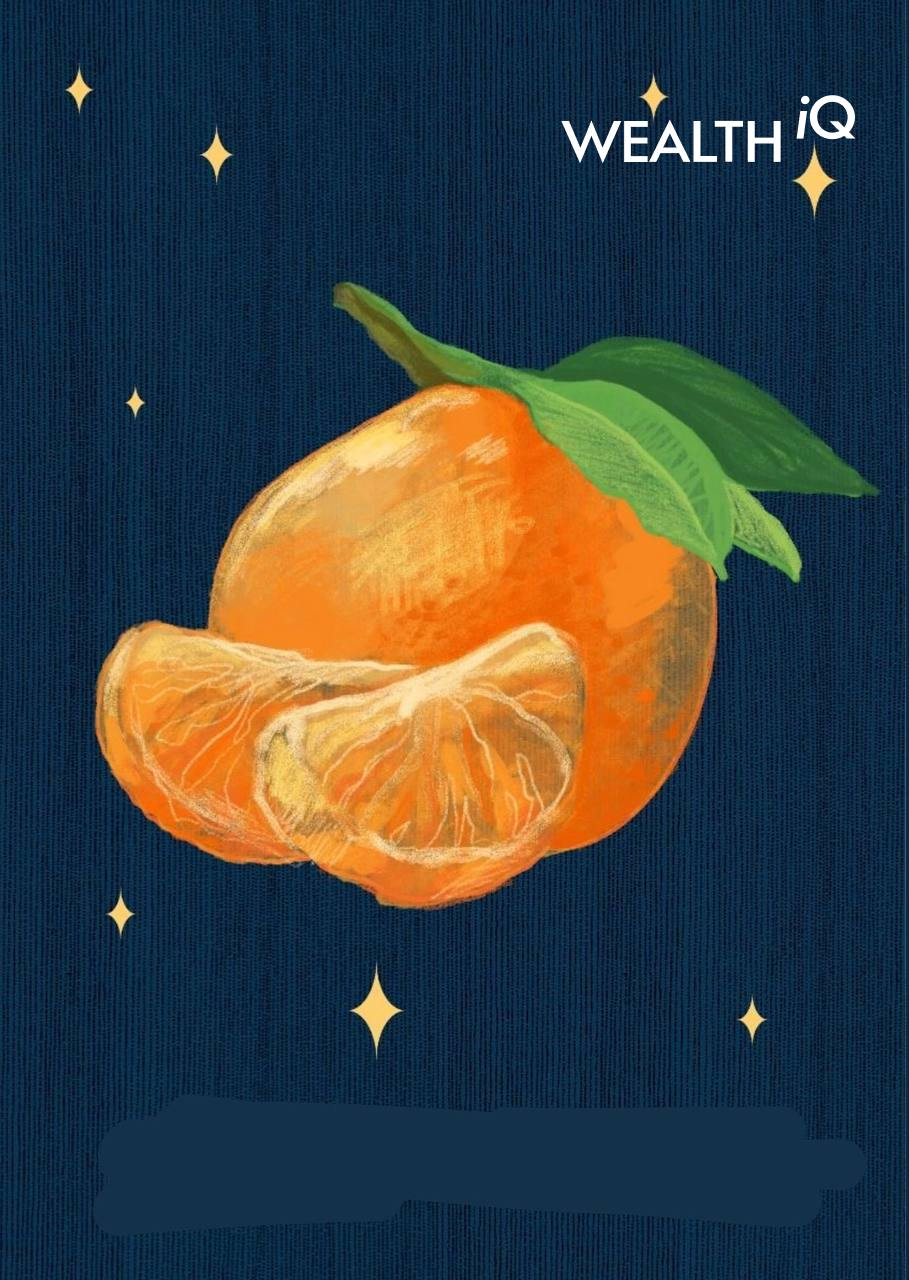
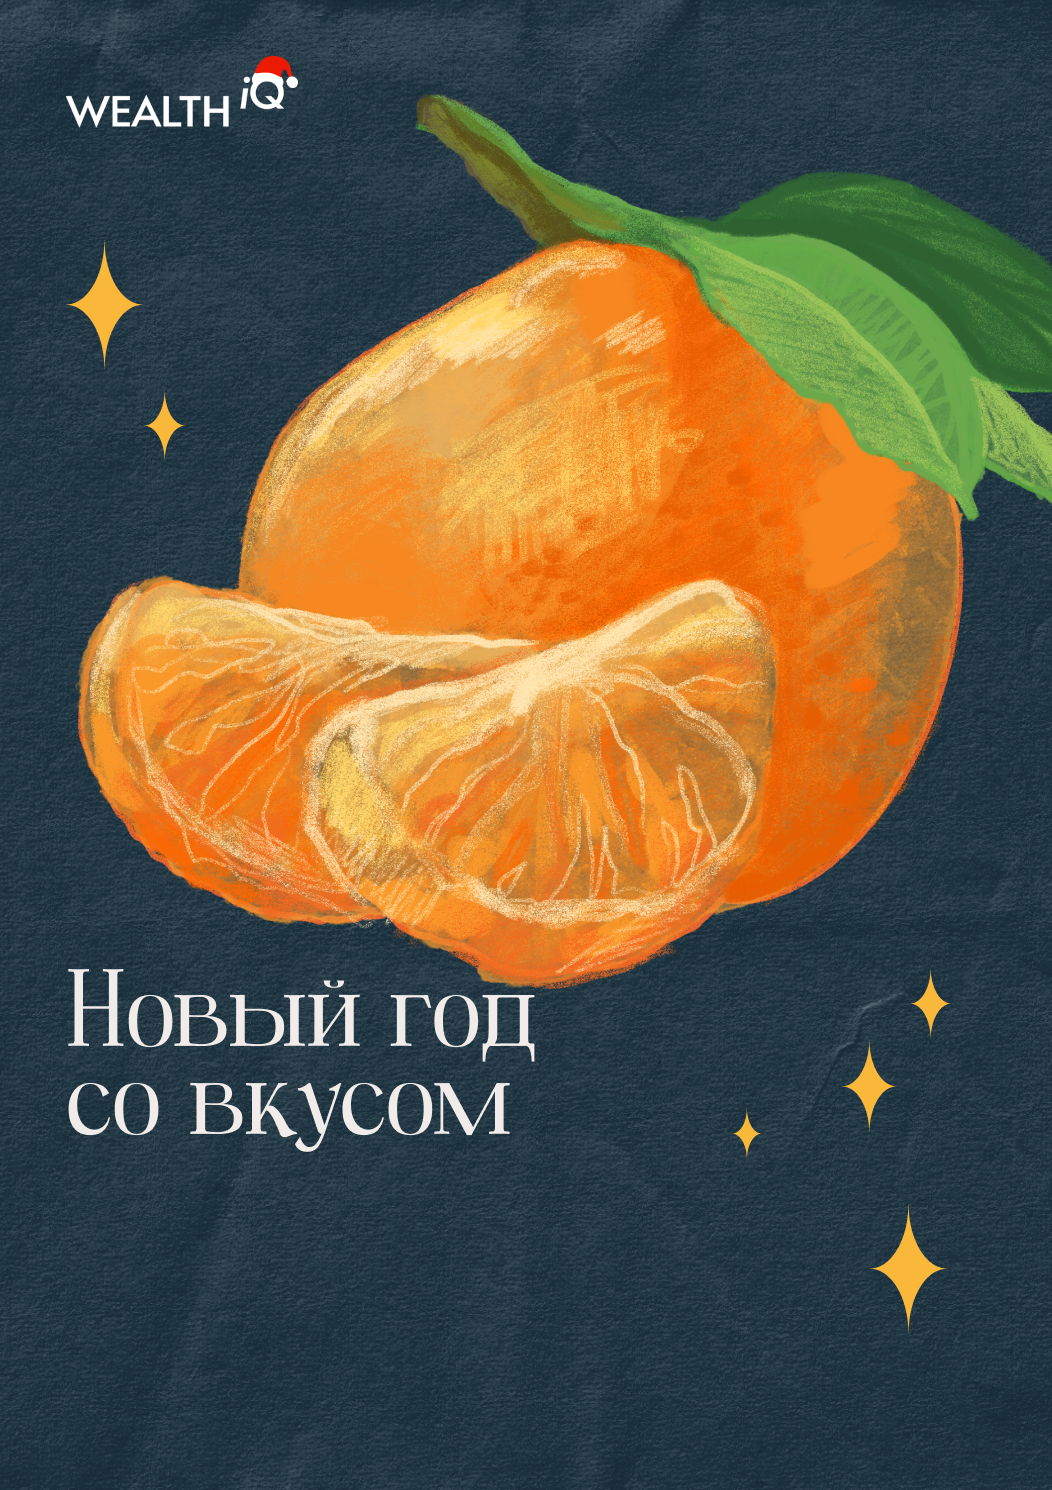
checkpoint 18.11

diff --git a/config.py b/config.py
@@ -27,8 +27,8 @@ TEMPLATE_CONFIGS = {
             "color": "white"
         },
         "text_position": {
-            "x": "center",
-            "y": 1000,
+            "x": 100,
+            "y": 1150,
             "max_width": 800,
             "max_height": 300,  # ← Добавьте
             "line_height": 70,
@@ -42,17 +42,17 @@ TEMPLATE_CONFIGS = {
         "image_path": os.path.join(BASE_DIR, "templates", "card2.png"),
         "font": {
             "path": os.path.join(BASE_DIR, "fonts", "festive.ttf"),
-            "size": 28,
-            "color": "#07381F"
+            "size": 100,
+            "color": "white"
         },
         "text_position": {
-            "x": 150,
-            "y": 150,
-            "max_width": 300,
-            "max_height": 200,  # ← Добавьте
-            "line_height": 50,
-            "min_font_size": 12,  # ← Добавьте
-            "max_font_size": 50   # ← Добавьте
+            "x": 100,
+            "y": 1150,
+            "max_width": 800,
+            "max_height": 300,  # ← Добавьте
+            "line_height": 70,
+            "min_font_size": 20,  # ← Добавьте
+            "max_font_size": 150  # ← Добавьте
         }
     },
     "template_3": {
@@ -61,17 +61,17 @@ TEMPLATE_CONFIGS = {
         "image_path": os.path.join(BASE_DIR, "templates", "card3.png"),
         "font": {
             "path": os.path.join(BASE_DIR, "fonts", "festive.ttf"),
-            "size": 200,
+            "size": 100,
             "color": "white"
         },
         "text_position": {
-            "x": "center",
-            "y": 150,
-            "max_width": 2000,
-            "max_height": 600,   # ← Добавьте
-            "line_height": 200,
-            "min_font_size": 30,  # ← Добавьте
-            "max_font_size": 250  # ← Добавьте
+            "x": 100,
+            "y": 1150,
+            "max_width": 800,
+            "max_height": 300,  # ← Добавьте
+            "line_height": 70,
+            "min_font_size": 20,  # ← Добавьте
+            "max_font_size": 150  # ← Добавьте
         }
     }
 }

diff --git a/services/image.py b/services/image.py
@@ -2,7 +2,7 @@ import os, io
 import logging
 from PIL import Image, ImageDraw, ImageFont
 from config import TEMPLATE_CONFIGS, template_cache, logger
-from services.fonts import get_dynamic_font
+from services.fonts import get_dynamic_font, calculate_line_height
 
 
 def create_card_sync(template_id, text):
@@ -27,7 +27,6 @@ def create_card_sync(template_id, text):
 
         # Используем точный расчет с передачей draw
         font = get_dynamic_font(template_id, text, draw)
-
         # Обработка переноса текста
         lines = wrap_text(draw, text, font, config["text_position"]["max_width"])
 
@@ -77,7 +76,7 @@ def draw_text_on_image(draw, lines, font, config, image_height):
     Рисует текст на изображении с правильным позиционированием
     """
     position_config = config["text_position"]
-    line_height = position_config["line_height"]
+    line_height = calculate_line_height(font.size, 2)
 
     # Рассчитываем общую высоту текстового блока
     total_text_height = len(lines) * line_height

diff --git a/services/fonts.py b/services/fonts.py
@@ -222,7 +222,12 @@ def wrap_text_to_fit(draw, text, font, max_width):
         lines.append(' '.join(current_line))
 
     return lines
-
+def calculate_line_height(font_size, line_height_ratio=1.6):
+    """
+    Автоматически рассчитывает межстрочное расстояние
+    line_height_ratio: 1.2-1.4 (плотно), 1.5-1.8 (нормально), 2.0+ (просторно)
+    """
+    return int(font_size * line_height_ratio)
 
 def all_lines_fit(draw, lines, font, max_width):
     """Проверяет что все строки влезают в максимальную ширину"""
